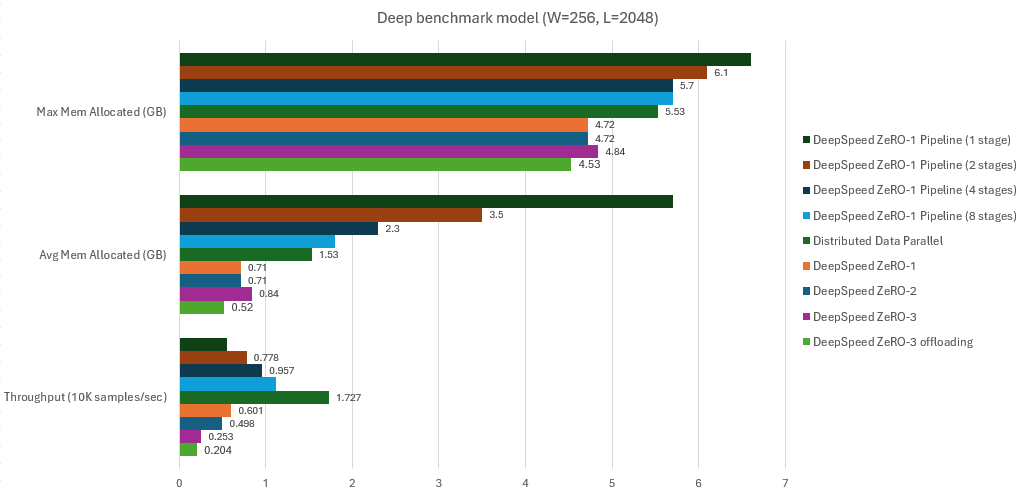
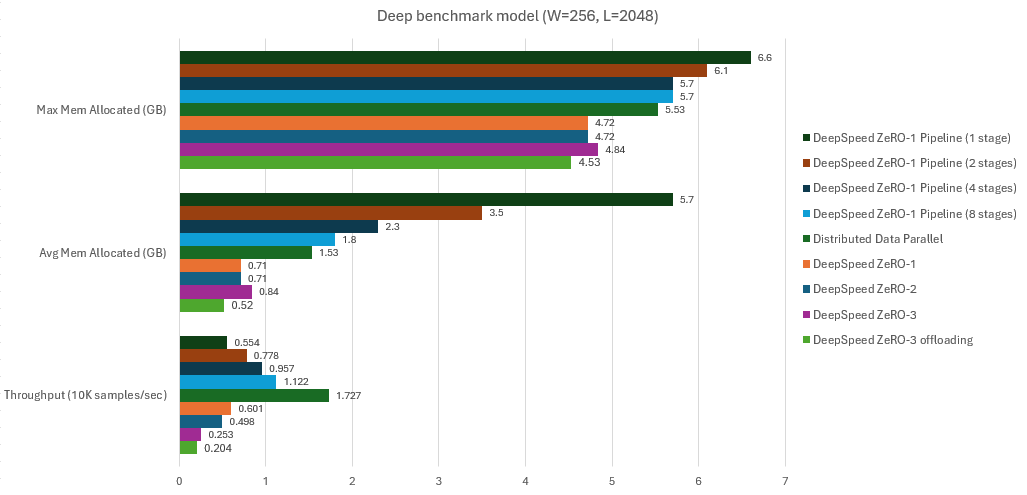
final corrections

diff --git a/_posts/2023-08-18-GPT-lite-DeepSpeed.md b/_posts/2023-08-18-GPT-lite-DeepSpeed.md
@@ -1,6 +1,6 @@
 ---
 layout: post
-title:  "Large-scale training of a GPT model with ZeRO and DeepSpeed"
+title:  "Large-scale training of a GPT model with DeepSpeed"
 categories: [machine learning, Transformer, GPT, DeepSpeed]
 tags: [machinelearning]
 ---
@@ -589,61 +589,51 @@ This metric is very useful as it gives a quick overview of scaling and is very f
 
 ### Benchmark
 
-To measure our performance, we will use the deepspeed logger to extract the following metrics at every 10 steps: model throughput as average samples per sec, the average allocated memory, and maximum allocated memory. All implementations tested use the same mixed precision representation, communication bucket sizes, microbatching, and activation checkpointing interval. Because we are interested in scalability, we decrease the memory consumption by having all communication bucket sizes decreased to `5e4`.  
+To measure our performance, we used the deepspeed logger to extract the following metrics from different runs at every 10 steps: model throughput as average number of samples per second, the average allocated memory, and maximum allocated memory. We used `pytorch==2.01`, CUDA `11.7` and `deepspeed==0.10.3`. The code for the main loop is in <a href="/assets/GPT-lite-DeepSpeed/train.py">`train.py`</a>, the GPT-lite and benchmark models are in <a href="/assets/GPT-lite-DeepSpeed/gptlite.py">`gptlite.py`</a> and <a href="/assets/GPT-lite-DeepSpeed/benchmark.py">`benchmark.py`</a>, and the launch script is in <a href="/assets/GPT-lite-DeepSpeed/run.sh">`run.sh`</a>.
 
-For reproducibility purposes, we are using `pytorch==2.01`, CUDA `11.7` and `deepspeed==0.10.3`. The code for the main loop is in <a href="/assets/GPT-lite-DeepSpeed/train.py">`train.py`</a>, the GPT-lite and benchmark models are in <a href="/assets/GPT-lite-DeepSpeed/gptlite.py">`gptlite.py`</a> and <a href="/assets/GPT-lite-DeepSpeed/benchmark.py">`benchmark.py`</a>, and the launch script is in <a href="/assets/GPT-lite-DeepSpeed/run.sh">`run.sh`</a>.
+All implementations use the same mixed precision representation, communication bucket sizes and other general config parameters. We are not including activation checkpointing in our benchmark due to an [open bug](https://github.com/microsoft/DeepSpeed/issues/4274) on DeepSpeed 0.10.3 related to activation checkpointing combined with pipelining. We benchmarked the following implementations (and configs):
 
-We benchmarked the following implementations (and configs):
-
-1. The distributed data parallel (DDP) implementation, ie no DeepSpeed (<a href="/assets/GPT-lite-DeepSpeed/ds_config.json">`ds_config.json`</a> with `stage: 0`);
-2. The fully-shared DDP implementation with ZeRO stages 1, 2 and 3 (<a href="/assets/GPT-lite-DeepSpeed/ds_config.json">`ds_config.json`</a> with `stage :1`, `2` or `3`);
-3. The fully-shared DDP implementation with ZeRO-3 and ZeRO-Infinity for CPU offloading (<a href="/assets/GPT-lite-DeepSpeed/ds_config_offload.json">`ds_config_offload.json`</a>);
-4. The memory-efficient pipeline implementation with ZeRO-1 and 4 pipeline stages (<a href="/assets/GPT-lite-DeepSpeed/ds_config.json">`ds_config.json`</a> with `stage: 1` and launch with `--pipeline_num_stages <stages> --pipeline_spec_layers`). Note that DeepSpeed will load-balance stages across GPUs, based on parameter count. As an example, DeepSpeed divides the 4-stage pipelining across 8 GPUs on the small GPT-lite model as (adapted from terminal output):
-
+1. The distributed data parallel (DDP) implementation, ie no DeepSpeed (<a href="/assets/GPT-lite-DeepSpeed/ds_config.json">`ds_config.json`</a> with `'stage': 0`);
+2. The fully-sharded data parallel implementation with ZeRO 1, 2 and 3 (<a href="/assets/GPT-lite-DeepSpeed/ds_config.json">`ds_config.json`</a> with `'stage' :1`, `2` or `3`);
+3. The fully-sharded data parallel implementation with ZeRO-Infinity for CPU offloading (<a href="/assets/GPT-lite-DeepSpeed/ds_config_offload.json">`ds_config_offload.json`</a>);
+4. The memory-efficient pipeline implementation with ZeRO-1 (<a href="/assets/GPT-lite-DeepSpeed/ds_config.json">`ds_config.json`</a> with `'stage': 1` and launch with `--pipeline_num_stages <num_stages> --pipeline_spec_layers`) where we tested 1, 2, 4 and 8 pipeline stages per run. We rely on the default DeepSpeed algorithm for load balancing of stages, based on the parameter count. As an example, for the partitioning of GPT-lite pipeline across 8 GPUs and 4 stages, it outputs:
+ 
    ```
-RANK=0 STAGE=0 LAYERS=4 [0, 4) STAGE_PARAMS=21256704 (21.257M) \
-  TOTAL_PARAMS=85078272 (85.078M) UNIQUE_PARAMS=85078272 (85.078M)
-     0: <lambda>, 1: Block, 2: Block, 3: Block
-   ```
-   ```
-RANK=2 STAGE=1 LAYERS=3 [4, 7) STAGE_PARAMS=21256704 (21.257M) \
-  TOTAL_PARAMS=85078272 (85.078M) UNIQUE_PARAMS=85078272 (85.078M)
-     4: Block, 5: Block, 6: Block
-   ```
-   ```
-RANK=4 STAGE=2 LAYERS=3 [7, 10) STAGE_PARAMS=21256704 (21.257M) \
-  TOTAL_PARAMS=85078272 (85.078M) UNIQUE_PARAMS=85078272 (85.078M)
-     7: Block, 8: Block, 9: Block
-   ```
-   ```
-RANK=6 STAGE=3 LAYERS=6 [10, 16) STAGE_PARAMS=21308160 (21.308M) \
-  TOTAL_PARAMS=85078272 (85.078M) UNIQUE_PARAMS=85078272 (85.078M)
-     10: Block, 11: Block, 12: Block, 13: LayerNorm, 14: Linear, 15: <lambda>, loss: CrossEntropyLoss
+RANK=0 STAGE=0 LAYERS=4 [0, 4)   STAGE_PARAMS=21256704 (21.257M)
+RANK=2 STAGE=1 LAYERS=3 [4, 7)   STAGE_PARAMS=21256704 (21.257M)
+RANK=4 STAGE=2 LAYERS=3 [7, 10)  STAGE_PARAMS=21256704 (21.257M)
+RANK=6 STAGE=3 LAYERS=6 [10, 16) STAGE_PARAMS=21308160 (21.308M)
    ```
 
-   - **IMPORTANT**: there's an [open bug](https://github.com/microsoft/DeepSpeed/issues/4274) on DeepSpeed 0.10.3 related to activation checkpointing combined with pipelining. Thus, the following runs will not use activation checkpointing, which would be benefitial particularly for the pipeline runs.
-
-We benchmark three models. At first, a wide version of our benchmark model, with a high parametric space and a small layer count (`W=8192`, `L=3`) with a batch size of $$2^{14}$$ and $$2^{11}$$ inputs per GPU, ie `{ 'train_batch_size': 16384, 'train_micro_batch_size_per_gpu': 2048 }`:
+We tested three models. The first is a *wide* version of our benchmark model, with a high parametric space and a small layer count (`W=8192`, `L=3`). We used a batch size of $$2^{14}$$, and a micro-batch size of $$2^{11}$$ inputs per GPU, ie `'train_batch_size': 16384` and `'train_micro_batch_size_per_gpu': 2048`. The benchmark results are:
 
 {: style="text-align:center; font-size: small;"}
 <img width="100%" height="100%" src="/assets/GPT-lite-DeepSpeed/benchmark_wide.png"/>
  
-Then we test a a deep benchmark model with a small latent space per layer and many layers (`W=256`, `L=2048`), and similartly, 2048 inputs per GPU:
+Then we tested a *deep benchmark model* with a small parameter space but with (`W=256`), a high layer count (`L=2048`), and the same input sizes as the previous:
 
 {: style="text-align:center; font-size: small;"}
 <img width="100%" height="100%" src="/assets/GPT-lite-DeepSpeed/benchmark_deep.png"/>
 
-And finally our small variant of the GPT-lite model, with 1 input per GPU:
+And finally our GPT-lite (small) model, with 1 input per GPU:
 
 {: style="text-align:center; font-size: small;"}
 <img width="100%" height="100%" src="/assets/GPT-lite-DeepSpeed/benchmark_gptlite.png"/>
 
-Looking at the max vs average memory, note that the max memory in theory should be much higher at high ZeRO stages compared to low ZeRO stages and DPP. This is due to more parameters being communicated requiring more communication buffers. However, setting the communication bucket sizes to a low value in the config file overcomes this effect. In fact, we benchmarked several runs with default communication bucket sizes (`5e9`) and it led to a very high memory usage (of approximately double the amount in stages 2 and 3), and becomes prohibitive for some runs. Note the difference between average memory and maximum memory: that volatility in memory consumption is due to all memory dedicated to activations, residual buffers and communication buffers.
+**Memory overhead from communication buffers.** Looking at the max vs average memory, note that the max memory in theory should be much higher at high ZeRO stages compared to low ZeRO stages and DPP. This is due to more parameters being communicated requiring more communication buffers. However, setting the communication bucket sizes to a low value in the config file overcomes this effect. In fact, we also benchmarked several runs with the default communication bucket sizes (`5e9`) and it led to a very high memory usage (of approximately double the amount in stages 2 and 3), and becomes prohibitive for some runs.
 
-In ideal scenarios, as you move from DDP to ZeRO-1, ZeRO-2, ZeRO-3 and ZeRO-Infinity, the memory increase and throughput are reduced. As expected, we swap data locality for communication of parameters, and pay the performance price for the communication/offload of parameters. This is the pattern in the deep benchmark model and our language model. However, the wide model does not respond similarly, and from stage 2 to stage 3 there is an increase in throughput. I believe this is due to ZeRO-3 distributing the fp16 model parameters, leading to a distributed parallelims of the very large sums of squares per layers (is it?). 
-Generally speaking, we observed a small improvement of memory efficiency, but still far from the claims of the original DeepSpeed team. One explanation is that we used a small network of 8 GPUs, compared to the 64 to 800 GPUs used by the authors in their benchmarks, therefore we achieve a much smaller memory reduction. Secondly, we did not combine pipelining with offloading and activation checkpointing, which adds even further hyper-parameters. Finally, our config file was an optimized ballpark figure of the default config file, and there is still plenty of work to be done to adapt it to the model and to the hardware, particularly via the exploration of the [autotuning](https://www.deepspeed.ai/tutorials/autotuning/) tools. 
+**Parameter vs residual memory.** Note the difference between average memory and maximum memory. That volatility in memory consumption is due to all memory dedicated to activations, residual buffers and communication buffers.
 
-### Final remarks
+**Communication vs computation trade-off from different stages in ZeRO.** In ideal scenarios, as you move from DDP to ZeRO-1, ZeRO-2, ZeRO-3 and ZeRO-Infinity, the memory consumption and throughput are reduced. As expected, we swap data locality for communication of parameters, and pay the performance price for the communication/offload of parameters. This is the pattern in the deep benchmark model and our language model. However, the wide model does not respond similarly, and from stage 2 to stage 3 there is an increase in throughput. I believe this is due to ZeRO-3 distributing the fp16 model parameters, leading to a distributed parallelims of the very large sums of squares per layers (is it?).
+
+**Pipelining performance for variable number of stages.** As expected, increasing the number of stages strongly decreases the average memory consumption. This is due to the model being partitioned in smaller blocks. There was no substantial decrease in maximum memory consumption, and this is something I am yet to understand (any hints?). The throughput demonstrated some peculiar behaviour: in the deep benchmark model, the throughput increases with the increase of stage count, while the opposite happens on the GPT-lite model. I believe this is due to load imbalance across stages, or a lower ratio of computation vs communication as we increase the stage count on the GPT lite use case.
+
+**Offloaded vs in-memory parameters.** Offloading proved to be a consistent way to reduce memory usage with the drawback of a small reduction of throughput, as expected.  
+ 
+**Results disccusion.** Generally speaking, we observed a small improvement of memory efficiency, but still far from the claims of the original DeepSpeed team. One explanation is that we used a small network of 8 GPUs, compared to the 64 to 800 GPUs used by the authors in their benchmarks, therefore we achieved a much smaller memory reduction. Also, maximum memory seems to be the main scaling bottleneck in scaling. In most runs, the maximum memory is much higher than the average memory, making me believe that there are some sporadic memory allocation peaks due to temporary buffers. If these are mostly communication buffers and others that are hard-limited in the config, then it could be that the memory efficiency would be much higher on a network of more GPUs.
+Also, finding the best parallelism strategy, and choosing between different ZeRO stages, offloading, activation breakpointing intervals, pipeline parallelism stages, etc, is very hard, as it depends heavily on the ML model and hardware. In practice, our config file is a manually-optimized ballpark figure of the default config file, and there is still plenty of work to be done to make it optimal, possibly by exploring the [autotuning](https://www.deepspeed.ai/tutorials/autotuning/) tools in DeepSpeed. There is a lot of food for thought, and I will be updating this post as I find new insights...
+
+### Further resources
 
 We just scratched the surface of DeepSpeed capabilities. There are plenty of resources that should also be explored:
 - [Autotuning](https://www.deepspeed.ai/tutorials/autotuning/) ([README.md](https://github.com/microsoft/DeepSpeed/tree/master/deepspeed/autotuning)) allows for the automatic finetuning of the allocation of computing (shards/layers) to processors, and is useful in very large models or large clusters; 
@@ -654,9 +644,7 @@ We just scratched the surface of DeepSpeed capabilities. There are plenty of res
 - [Sparse attention kernels](https://www.deepspeed.ai/2020/09/08/sparse-attention.html) ([API](https://www.deepspeed.ai/docs/config-json/#sparse-attention)) to support long sequences of model inputs, such as text, image, or sound;
 - [Communication optimizers](https://www.deepspeed.ai/training/#1-bit-adam-01-adam-and-1-bit-lamb-optimizers-with-up-to-26x-less-communication) offer the same convergence as Adam/LAMB but incur 26x less communication and 6.6x higher throughput on large BERT pretraining;
 - [Monitor](https://www.deepspeed.ai/training/#monitor) logs live training metrics to one or more monitoring backends to TensorBoard, csv file or other resource;
-- [Model Compression](https://www.deepspeed.ai/compression/) ([API](https://www.deepspeed.ai/docs/config-json/#compression)) via layer reduction, weight quantization, activation quantization, sparse pruning, row pruning, head pruning and channel pruning, to deliver faster speed and smaller model size,
-
-and for inference use cases:
+- [Model Compression](https://www.deepspeed.ai/compression/) ([API](https://www.deepspeed.ai/docs/config-json/#compression)) via layer reduction, weight quantization, activation quantization, sparse pruning, row pruning, head pruning and channel pruning, to deliver faster speed and smaller model size.
 - [Mixture of Experts](https://www.deepspeed.ai/tutorials/mixture-of-experts/) ([API](https://deepspeed.readthedocs.io/en/latest/moe.html))  for sparsity during inference; 
 - [Using pre-trained models for inference](https://www.deepspeed.ai/tutorials/inference-tutorial/) for integrating pre-trained Hugging Face models into DeepSpeed;
 
